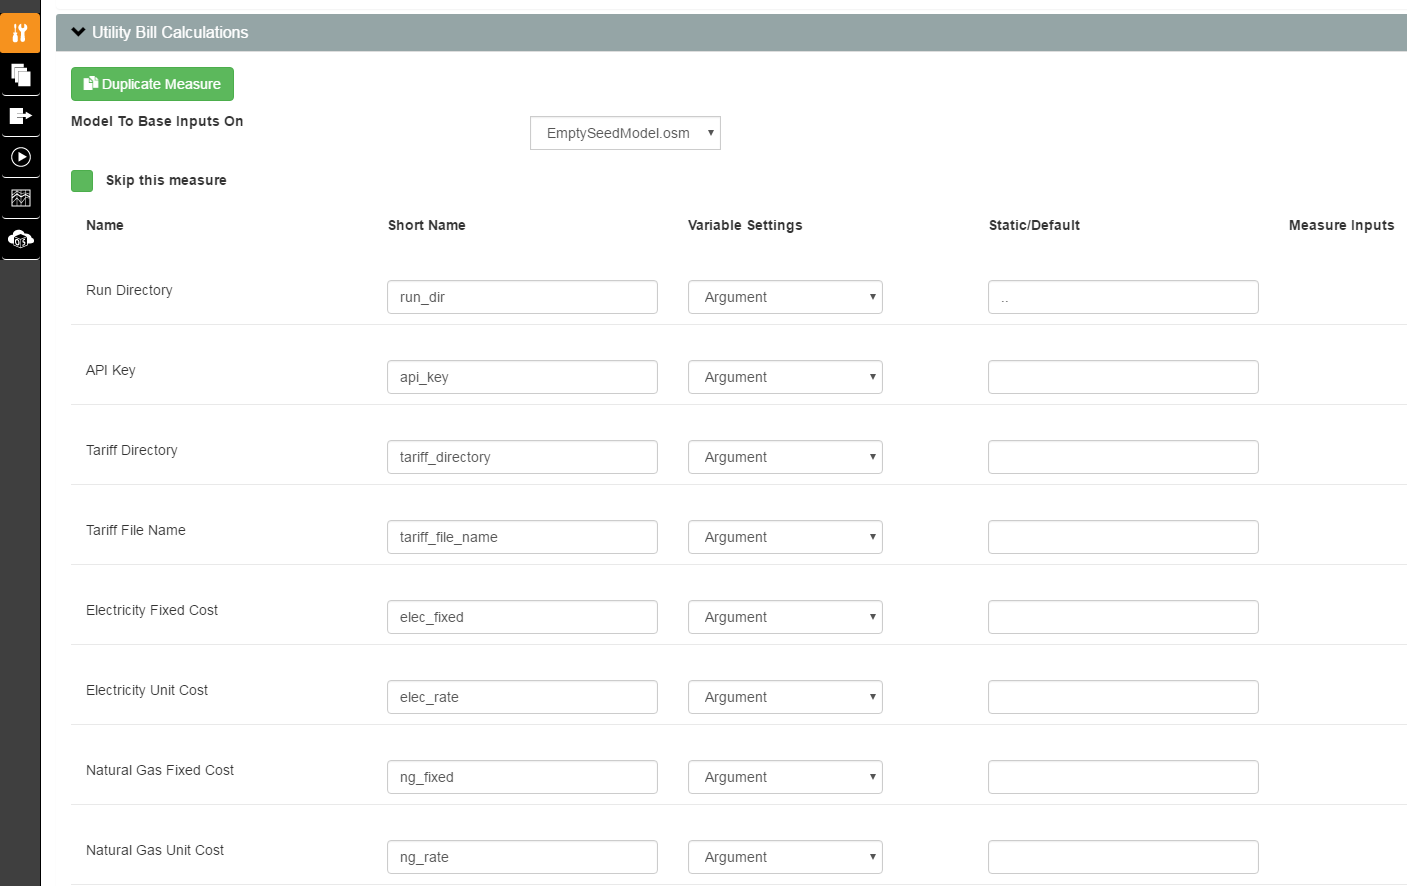
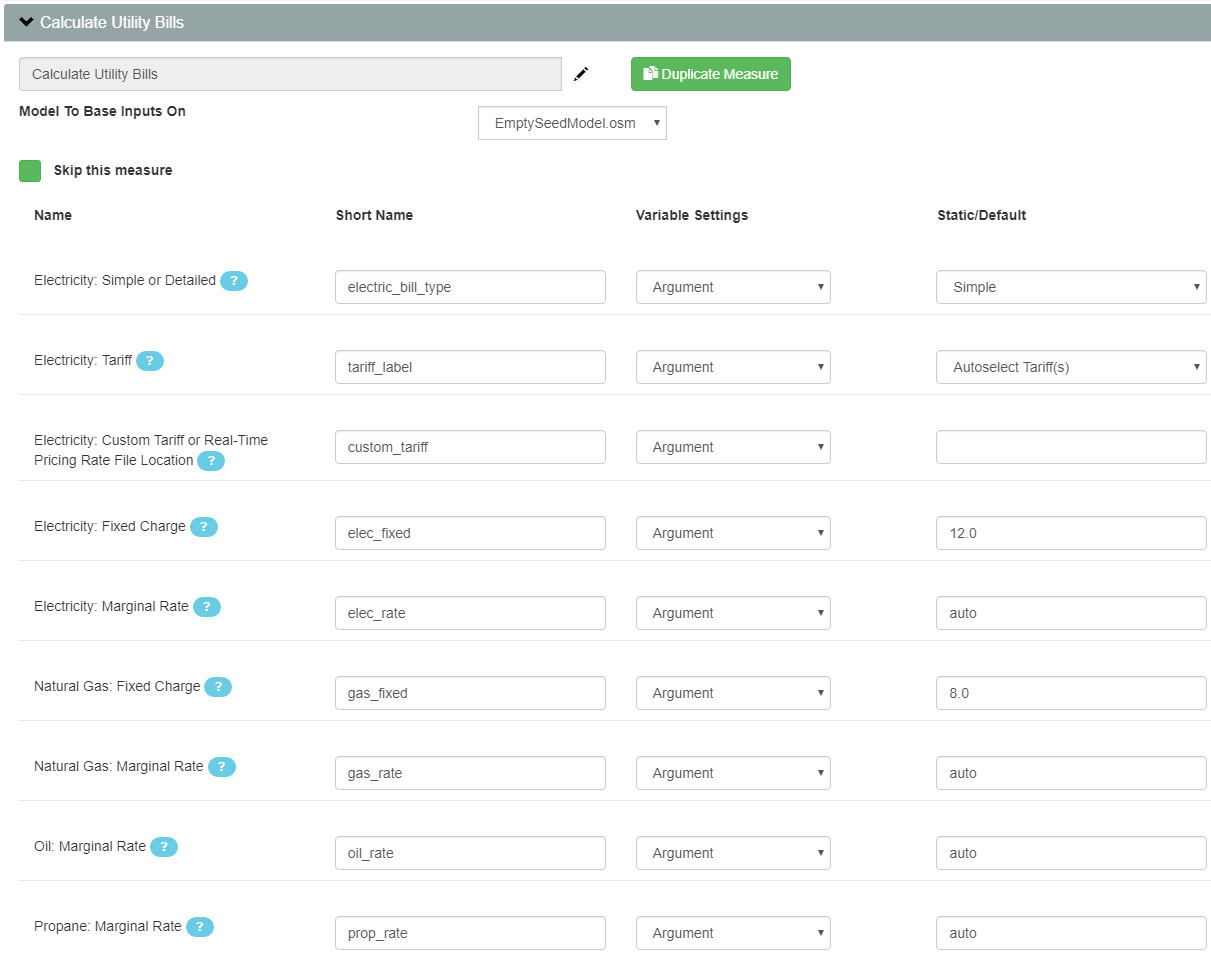
Update rtd for utility bill measure.

diff --git a/docs/read_the_docs/source/tutorial/setup_analysis_project.rst b/docs/read_the_docs/source/tutorial/setup_analysis_project.rst
@@ -222,7 +222,7 @@ End uses include:
   * monthly
   * run period
   
-  Setting the reporting frequency to "timestep" will give you interval output equal to the zone timestep set by the "Simulation Controls" measure. Thus, this measure will produce 10-min interval output when you select "timestep" and leave the "Simulation Controls" measure at its default settings. Setting the reporting frequency to "detailed" will give you interval output equal to the calculation step (i.e., either zone timestep or HVAC system timestep).
+  Setting the reporting frequency to 'timestep' will give you interval output equal to the zone timestep set by the "Simulation Controls" measure. Thus, this measure will produce 10-min interval output when you select 'timestep' and leave the "Simulation Controls" measure at its default settings. Setting the reporting frequency to "detailed" will give you interval output equal to the calculation step (i.e., either zone timestep or HVAC system timestep).
 
 **Include End Use Subcategories**
   Select this to include end use subcategories. The default is to not include end use subcategories. End use subcategories include:
@@ -258,4 +258,85 @@ End uses include:
 Utility Bill Calculations
 ^^^^^^^^^^^^^^^^^^^^^^^^^
 
-This measure is currently under construction. Do not include it in your PAT analysis.
+If you do not need to calculate utility bills for your simulations, you can skip this measure. Otherwise, this reporting measure calculates utility bills and reports them in the results csv file.
+
+Utility bills include:
+
+  * Electricity
+    * based on monthly fixed charge and marginal rate, or 
+    * based on tariff from the OpenEI Utility Rate Database (URDB)
+  * Natural Gas
+    * based on monthly fixed charge and marginal rate
+  * Fuel Oil
+    * based on marginal rate
+  * Propane
+    * based on marginal rate
+
+.. image:: ../images/tutorial/utility_bill_calculations.png
+
+**Electricity: Simple or Detailed**
+
+  * Simple
+  * Detailed
+
+  If 'Simple' is selected, electric utility bills are calculated based on user-defined fixed charge and marginal rate. If 'Detailed' is selected, electric utility bills are calculated based on either: a tariff from the OpenEI Utility Rate Database (URDB), or a real-time pricing rate.
+
+**Electricity: Tariff**
+
+  * Autoselect Tariff(s)
+  * Custom Tariff
+  * Custom Real-Time Pricing Rate
+  * Sample Real-Time Pricing Rate
+  * List of tariffs from the OpenEI Utility Rate Database (URDB)
+
+**Electricity: Custom Tariff or Real-Time Pricing Rate File Location**
+
+  If 'Custom Tariff' or 'Custom Real-Time Pricing Rate' is selected above, you would enter an absolute path to the rate file here.
+
+**Electricity: Fixed Charge**
+
+  This is the monthly fixed charge for electricity. Default value is $12/month.
+
+**Electricity: Marginal Rate**
+
+  This is the $/kWh for electricity. Default value is 'auto' (state-average value from EIA).
+
+**Natural Gas: Fixed Charge**
+
+  This is the monthly fixed charge for natural gas. Default value is $8/month.
+
+**Natural Gas: Marginal Rate**
+
+  This is the $/therm for natural gas. Default value is 'auto' (state-average value from EIA).
+
+**Oil: Marginal Rate**
+
+  This is the $/gallon for fuel oil. Default value is 'auto' (state-average value from EIA).
+
+**Propane: Marginal Rate**
+
+  This is the $/gallon for propane. Default value is 'auto' (state-average value from EIA).
+
+Additionally, you can set values for PV-related arguments:
+
+.. image:: ../images/tutorial/utility_bill_calculations_2.png
+
+**PV: Compensation Type**
+
+  The default type of compensation for PV is 'Net Metering'. Otherwise, you can select:
+
+  * Feed-In Tariff
+
+**PV: Net Metering Annual Excess Sellback Rate Type**
+
+  The default type of annual excess sellback rate for PV is 'user-specified'. Otherwise, you can select:
+  
+  * retail electricity cost
+
+**PV: Net Metering Annual Excess Sellback Rate**
+
+  This is the annual excess sellback rate for PV. Default value is $0.03/kWh.
+
+**Feed-In Tariff Rate**
+
+  This is the annual full/gross tariff rate for PV. Default value is $0.12/kWh.
